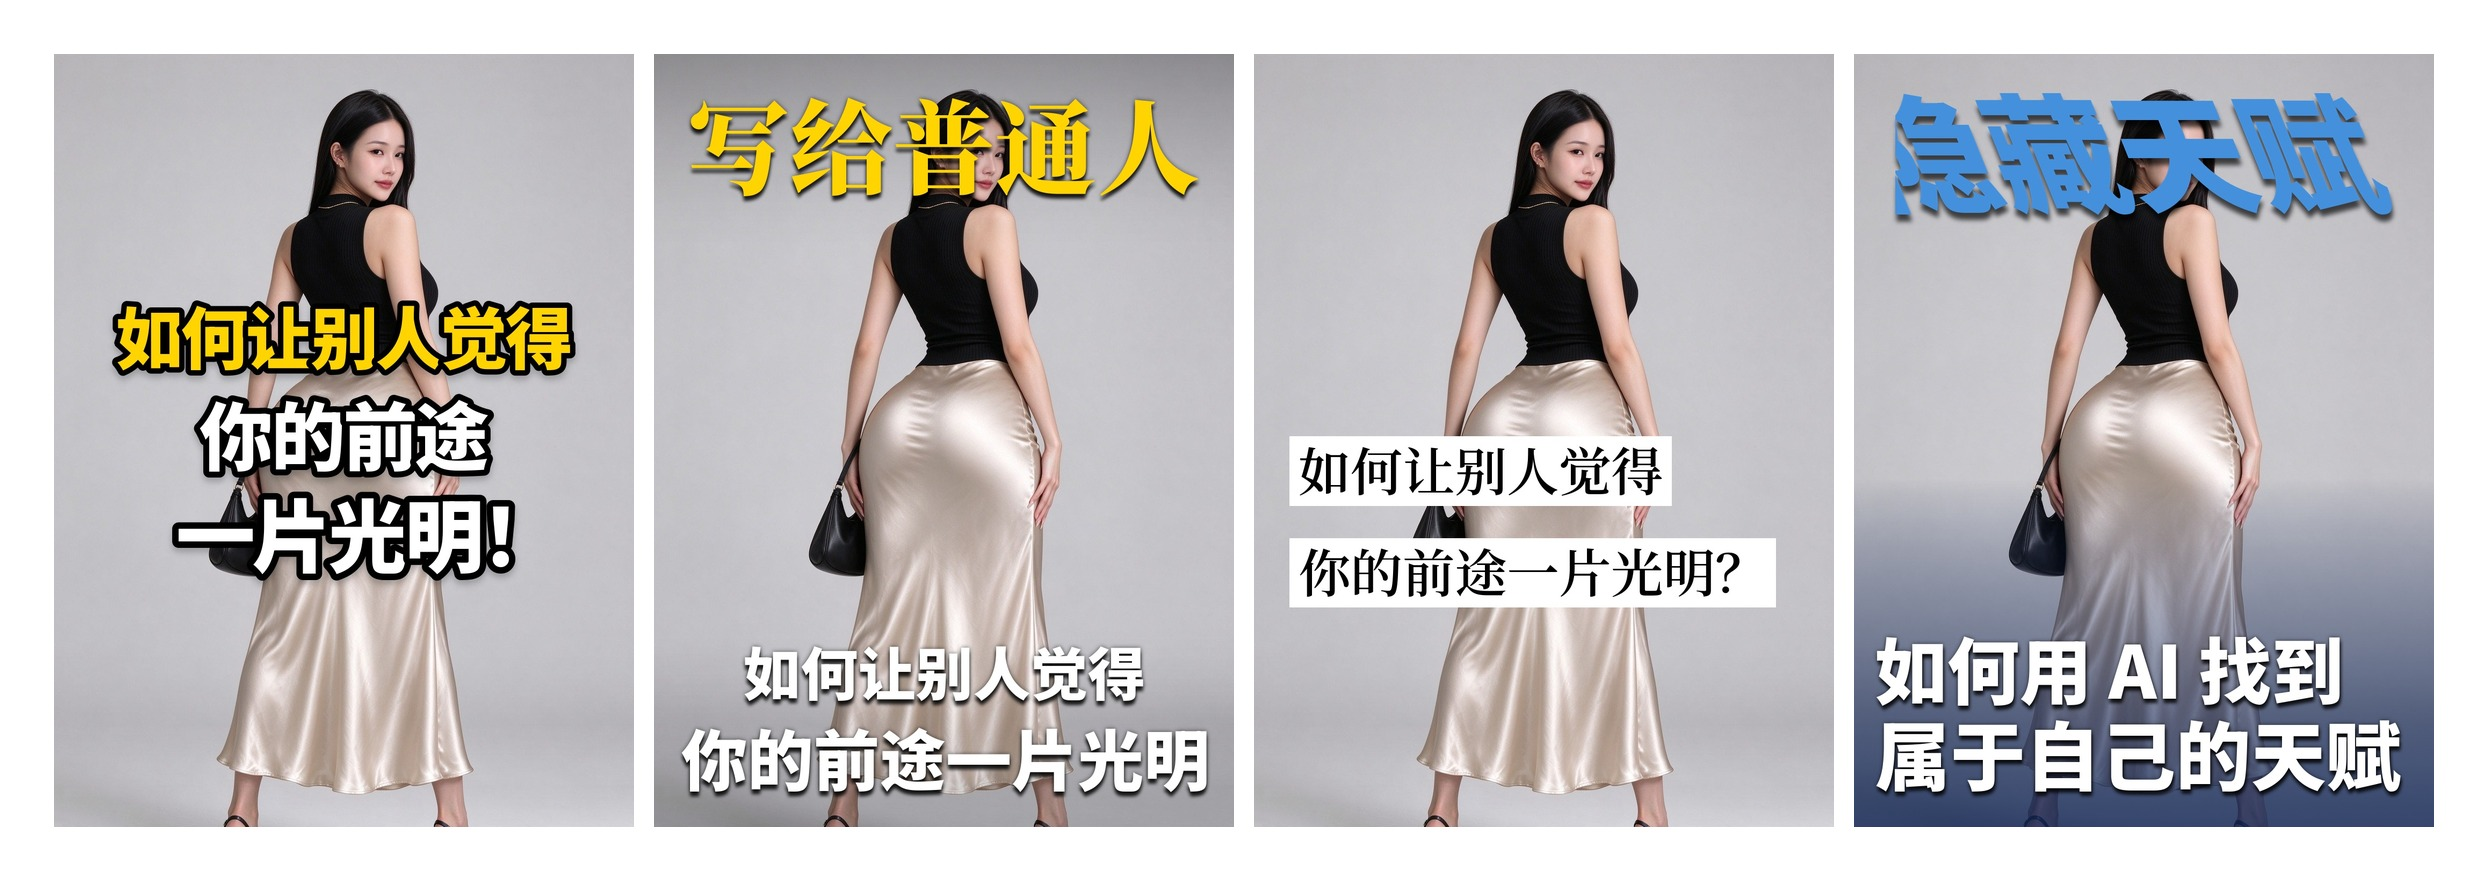
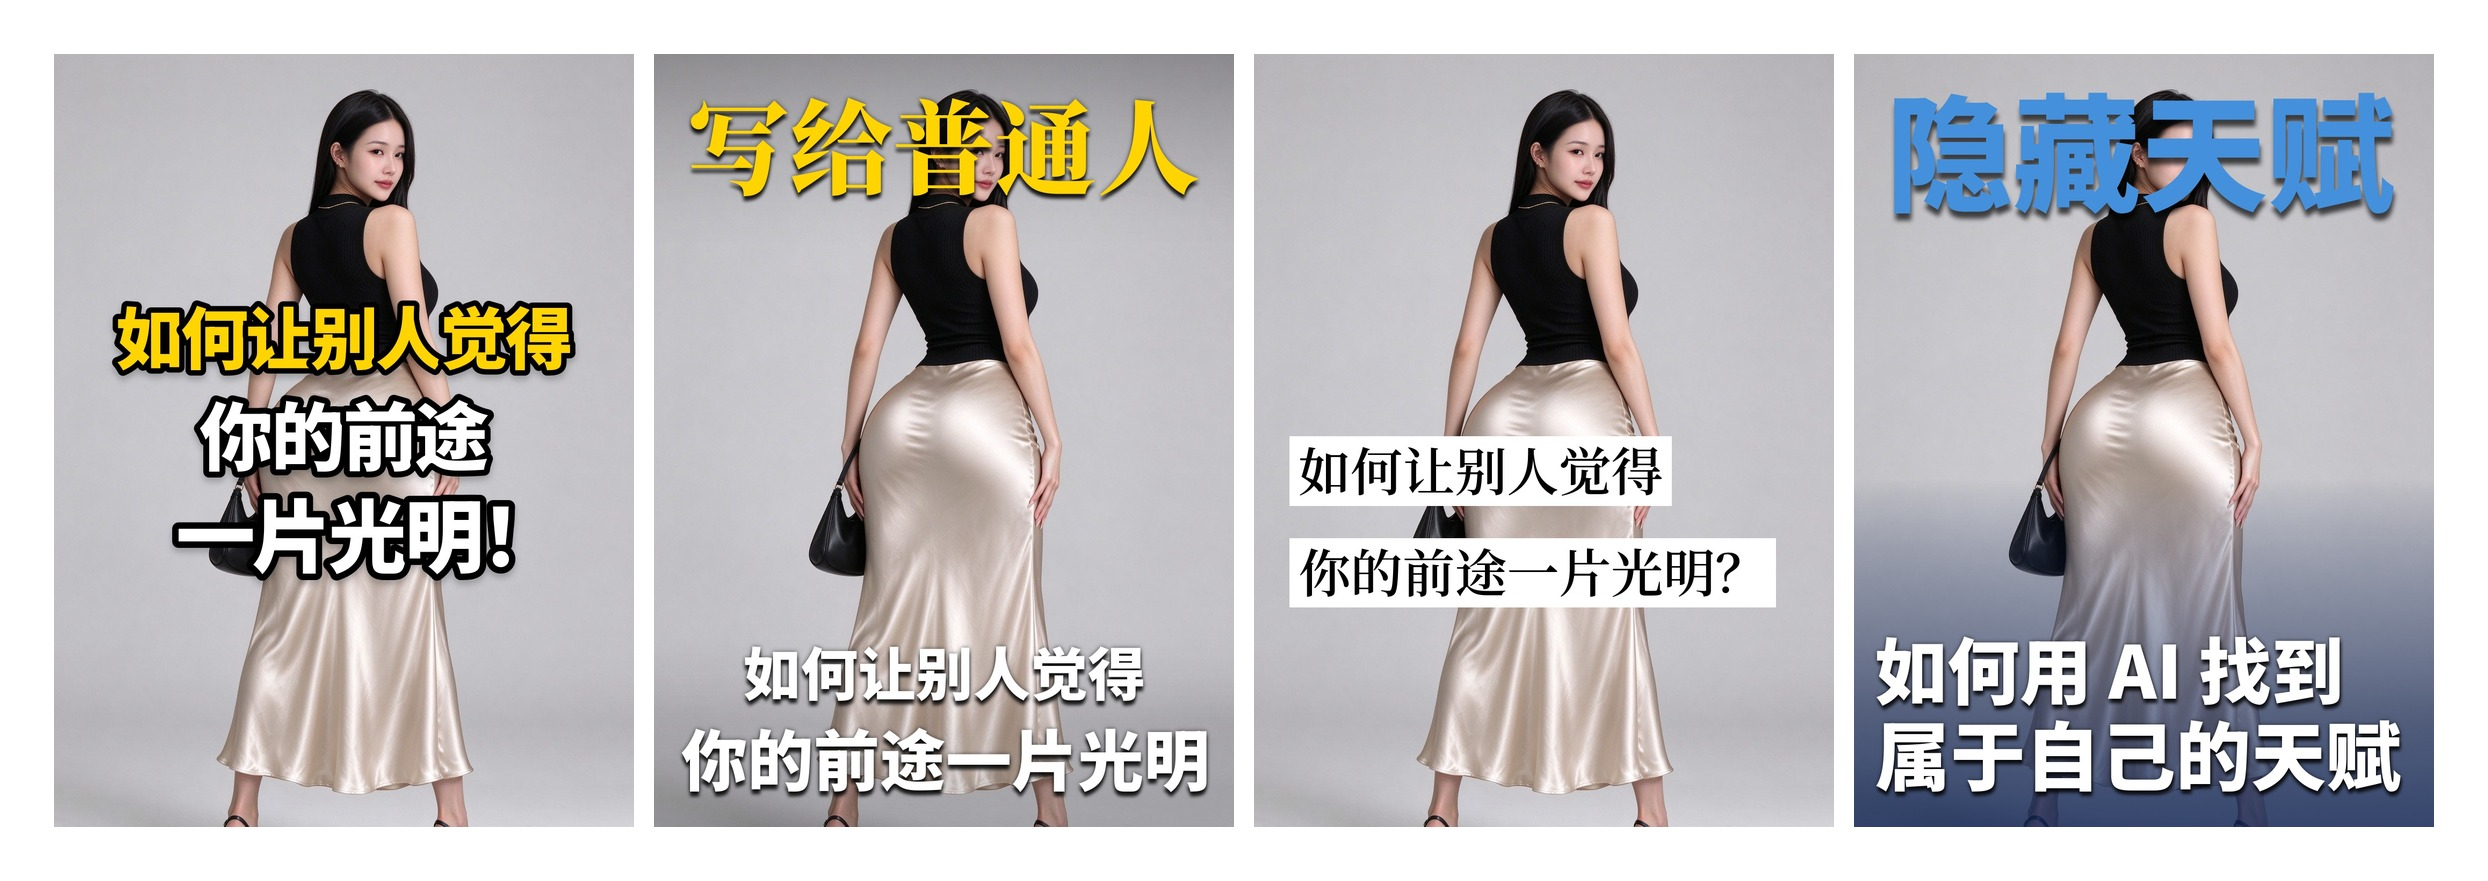
fix(style04): 默认关闭斜切，斜字压顶改名彩字压顶
- 中文字身方正，粗黑体 shear 后竖笔变细、横笔变粗，笔画方头被切成斜口，观感像被削
- --italic 默认 22 → 0，参数保留（18~22 可复刻参考图斜体感）
- 风格名改为「彩字压顶」，识别特征从「斜切」改为「彩字 + 暗化底带」
- 重出 showcase 与 all-styles

Changed region(s): [[0.7428, 0.0919, 0.9594, 0.2452]]

diff --git a/tools/style04_title_band.py b/tools/style04_title_band.py
@@ -12,7 +12,7 @@
 
 设计常量（相对画布 W / H，换画布也成立）
   标题墨迹宽   0.860 W   ← 硬约束：与字数无关，字号是变量
-  标题斜切     28°       ← 向右倾，模拟斜体；宽度反解时按剪切后的实际墨迹算
+  标题斜切     默认关     ← 参考图是斜的，但中文剪切后笔画端会出斜口，--italic 18~22 可开
   标题顶边距   0.050 H   ← 墨迹顶边到画布顶（不贴边）
   底行末行宽   0.905 W   ← 落点行，最大
   底行引导宽   0.700 W   ← 前面几行，明显小一档（一行大一行小）
@@ -48,7 +48,9 @@ BOT_FONTS = {
 
 TITLE_W = 0.860        # 标题墨迹宽 / 画布宽
 TITLE_INSET = 0.050    # 标题墨迹顶边距 / 画布高
-ITALIC = 22.0          # 斜切角度（度），向右倾
+ITALIC = 0.0           # 斜切角度（度），默认 0 不斜
+# 参考图是斜的，但中文字身方正，粗黑体剪切后笔画端部会被切出斜口，像被削了一刀。
+# 要复刻参考图那种斜体感再打开：--italic 18~22（别超过 24，中文会失真）
 TITLE_STROKE = 0.030   # 描边 / 字号（参考图有一圈很薄的浅边）
 TITLE_STROKE_COLOR = '#EAF4FF'
 
@@ -420,7 +422,7 @@ def main():
                     help='标题色，默认参考图蓝 #4490DC')
     ap.add_argument('--ink', default=INK, help='底行色，默认白')
     ap.add_argument('--italic', type=float, default=ITALIC,
-                    help='标题斜切角度，默认 28 度；0 = 不斜')
+                    help='标题斜切角度，默认 0（不斜）；18~22 复刻参考图的斜体感，别超过 24')
     ap.add_argument('--bot-cap', type=float, default=BOT_SIZE_CAP,
                     help='底行字号上限 / 标题字号，默认 0.92；1.5 = 放开')
     ap.add_argument('--title-w', type=float, default=TITLE_W,

diff --git a/style-library/04-彩字压顶.md b/style-library/04-彩字压顶.md
@@ -1,11 +1,14 @@
-# 风格卡：斜字压顶
+# 风格卡：彩字压顶
 
-> **核心画像**：真人实拍底图 + **顶部一行超大斜切标题（彩字）** + **底部两行白字** + **下半身压一块暗化底带**。三件套缺一不可。
+> **核心画像**：真人实拍底图 + **顶部一行超大彩字标题** + **底部两行白字** + **下半身压一块暗化底带**。三件套缺一不可。
+>
+> 参考图那个斜体标题是斜切出来的，但**中文粗黑体剪切后每个笔画的方头都会被切出斜口，看着像被削了一刀**。所以默认不斜，`--italic 18~22` 才开。
 >
 > 和样式02 是亲戚：都是「上下一夹、中间露人」。区别在于 04 把标题**做大、做斜、上色**，并且给底部加了一条**暗化底带**——白字不再靠阴影硬撑，而是自带一块深色地基。所以 04 能扛住高光底图（白墙、亮天、浅灰棚），02 扛不住。
 
 ```yaml
-name: 斜字压顶
+name: 彩字压顶
+aka: 斜字压顶（旧名，2026-11 起默认不斜）
 status: active
 category: 真人实拍 + 顶部彩字斜切大标题 + 底部两行白字 + 暗化底带
 
@@ -19,14 +22,14 @@ fits:
 core:
   layout: 顶部 1 行标题 + 底部 2 行白字，共 3 行（标题只能 1 行，底行 2-3 行）
   title_edge: 标题贴顶，字的下沿可以压到额头，但不下探到眼睛
-  italic: 标题必须斜切，正着放就退化成样式02
+  italic: 斜切可选，默认关闭（中文剪切后笔画端会出斜口，像被削）
   backdrop: 底部必须有一条暗化底带 —— 这是本卡的身份证
   no_deco: 角标 / 订阅按钮 / 姓名条 / 播放键等所有 UI 装饰一律不做，只留两处文字 + 底带
 ```
 
 ## 三条识别特征
 
-1. **斜切彩字压顶**：标题默认 22° 向右倾（斜体感），一个字都不许横平竖直地放着。颜色默认参考图的亮蓝 `#4490DC`，靠颜色把人从底图里拽出来。
+1. **彩字压顶**：标题是整张唯一上色的元素，默认参考图实测的亮蓝 `#4490DC`。一头撞在白墙、灰底、深色衣服上都能跳出来——这是它比样式02 更抓眼的根本原因。想更凶换 `#FF3B30` 红或 `#FFD400` 黄。
 2. **底部一条暗化底带**：0.55 H 以上**一点不压**，以下按幂函数加深，颜色是**深蓝黑**（`#0E2352`）而不是纯黑。压过之后底图下半身整体变冷变暗，白字像贴在深色地面上。纯黑会把底图的皮肤压成脏灰。
 3. **一行大、一行小**：末行撑满 90.5% W，上面那行只撑 80% W；两行还用同一个左基线，读起来是「平铺一句 → 加大落点」。
 
@@ -36,7 +39,7 @@ core:
 canvas:     3:4（1080 × 1440），全库统一
 title_w:    0.860 W     # 标题墨迹宽度，硬约束（斜切后的实际墨迹宽）
 title_inset:0.050 H     # 标题墨迹顶边 → 画布顶
-italic:     22°         # 斜切角度，向右倾；0 = 不斜（退化成 02）
+italic:     0           # 默认不斜；18~22 复刻参考图的斜体感，别超过 24
 bot_w:      0.905 W     # 底行【末行】墨迹宽度（落点）
 bot_lead_w: 0.800 W     # 底行【前几行】墨迹宽度（引导，小一档）
 bot_inset:  0.045 H     # 末行墨迹底边 → 画布底
@@ -96,7 +99,7 @@ python tools/style04_title_band.py --base 底图.png --out 封面.png \
 
 ## 不要做
 
-- **不要把标题放正**。斜切是这张卡唯一的手写体暗示，正着放就成了普通压边图。
+- **不要默认开斜切**。中文字是方的，剪切后竖笔变细、横笔变粗，所有方形笔画端头都被切成斜口——放大看像被削过。参考图是斜的，但那是因为它字少（4 字）、字重没到 900；7 字以上再斜会碎。要试就先 `--italic 18`，别一步上 28。
 - **不要给标题加黑描边**。那是样式01。04 靠颜色和柔影分离，不靠描边。
 - **不要把底带做成硬边色块**。硬边就是样式03 的白条换了个颜色，整张会像贴了张纸。必须是上沿渐隐的软过渡。
 - **不要用纯黑做底带**。纯黑会把底图肤色压成灰绿，人物看着像遗照。要带蓝。
@@ -108,7 +111,8 @@ python tools/style04_title_band.py --base 底图.png --out 封面.png \
 
 - **斜切必须用变换后的实际墨迹宽度反解字号**。计算式 `w + tan(θ)·h` 只是估算，中文不同字的墨迹高度不一样，估算和实绘能差 4-6%。做法和第二点一样：先二分、再实绘回修 3-4 次。
 - **`Image.transform` 的输出尺寸必须包含扩展区**。写成 `transform((w, h), AFFINE, (1, -k, extra, 0, 1, 0))` 时，右移的部分会被直接切掉，字看起来像被削掉一截——输出要用 `(w + extra, h)`。这个 bug 表现为「左边第一个字缺一块、右边最后一个字被裁」，很容易误判成居中算错。
-- **斜切角度超过 28° 会失真**。中文字身是方的，剪太狠笔画会拉成斜条；22° 最像正常的斜体，30° 以上只适合英文。
+- **斜切角度超过 24° 会失真**。中文字身是方的，剪太狠笔画会拉成斜条，18~22° 还像正常的斜体，30° 以上只适合英文。
+- **斜切后笔画粗细会变**。shear 只做几何变换，不做光学补偿：竖笔被压细、横笔被拉粗。粗黑体 900 字重下最明显，笔画端部的方头会变成斜切口——这就是「字被削了一块」的观感来源，不是裁切 bug。
 - **标题不能加暗晕**。样式02 那双层阴影挪过来会把斜切边的抗锯齿糊成毛边，蓝字看着发脏。标题只要一层右下柔影。
 - **底带起点不能太高**。一开始用 0.46 H 起渐隐、上一路斜下来，白底图（白墙白衣服）会被整张蒙上一层灰蓝，人物全脏。起点以上必须 `alpha = 0`，0.55 H 是最稳的位置：腰部以下压、以上不动。
 - **底带起点也不能太低**（0.68 H 以下），那样第一条底行会压在没有暗带的亮底上，只剩阴影硬撑。

diff --git a/SKILL.md b/SKILL.md
@@ -22,7 +22,7 @@ allowed-tools: Bash(*), Read, Write, Edit, Grep, Glob, Skill, ImageGen(经DeferE
 | **01** | 描边压脸 | 纯黑描边 + 黄色钩子行 + 白色结论行，三行堆叠、**整块钉在画布正中且撑满 80% 宽** | `tools/style01_stroke_stack.py` |
 | **02** | 上下压边 | 顶一行大标签 + 底两行大字，**上下一夹、中间整块露人**；无描边，顶宋体底黑体，每行独立撑满 87.5%/90.5% 宽 | `tools/style02_edge_anchor.py` |
 | **03** | 白条压字 | **纯白硬边横条** + **黑色宋体**，左对齐，横切人物腰腹 | `tools/style03_white_bar.py` |
-| **04** | 斜字压顶 | **顶部超大斜切彩字 + 底部两行白字 + 下半身暗化底带**，中间露人；只留两处文字，不做角标/按钮 | `tools/style04_title_band.py` |
+| **04** | 彩字压顶 | **顶部超大彩字标题 + 底部两行白字 + 下半身暗化底带**，中间露人；只留两处文字，不做角标/按钮 | `tools/style04_title_band.py` |
 
 > **画布统一 3:4（1080×1440）**。三个出图器都只出 3:4，`--width` 只改宽度、高度自动按比例算。这条不接受覆盖——同一批封面要做合集、做主页九宫格，比例不一致就废了。
 
@@ -74,7 +74,7 @@ allowed-tools: Bash(*), Read, Write, Edit, Grep, Glob, Skill, ImageGen(经DeferE
      - 样式 01 描边压脸 → `python tools/style01_stroke_stack.py --base 底图 --out 输出 --split "首行|次行|末行" [--accent] [--font] [--offset-y]`
      - 样式 02 上下压边 → `python tools/style02_edge_anchor.py --base 底图 --out 输出 --split "顶行|底1|底2" [--accent] [--bot-font] [--offset-y]`
      - 样式 03 白条压字 → `python tools/style03_white_bar.py --base 底图 --out 输出 --split "上句|下句" [--weight] [--font] [--offset-y]`
-     - 样式 04 斜字压顶 → `python tools/style04_title_band.py --base 底图 --out 输出 --split "标题|底1|底2" [--title-color] [--italic] [--veil] [--align]`
+     - 样式 04 彩字压顶 → `python tools/style04_title_band.py --base 底图 --out 输出 --split "标题|底1|底2" [--title-color] [--italic] [--veil] [--align]`
    - 工具都在本 skill 目录内。当前工作目录不确定时**用绝对路径调用**（`~/.workbuddy/skills/cover-style-lab/tools/style01_stroke_stack.py`），别 `cd` 进去再跑。
    - **路线 B：AI 图生图**——底图需要**改造**（换背景/造场景/无底图文生图）时才用。真人底图走 AI 会重绘人物（磨皮、衣物细节变动），做真人 IP 素材慎用。
    - AI 路线仍受 credits 约束：单张约 5-10，跑前报数。
@@ -106,7 +106,7 @@ allowed-tools: Bash(*), Read, Write, Edit, Grep, Glob, Skill, ImageGen(经DeferE
 | 用第一种样式 / 样式01 / 一号封面 | 直接读编号表 → 调 `style01_stroke_stack.py` |
 | 用上下压边 / 样式02 / 二号封面 | 直接读编号表 → 调 `style02_edge_anchor.py` |
 | 用白条 / 样式03 / 三号封面 | 直接读编号表 → 调 `style03_white_bar.py` |
-| 用斜字压顶 / 样式04 / 四号封面 | 直接读编号表 → 调 `style04_title_band.py` |
+| 用彩字压顶 / 样式04 / 四号封面 | 直接读编号表 → 调 `style04_title_band.py` |
 | 看看有哪几种风格 | 读 `style-library/INDEX.md`，把 `assets/showcase/all-styles.jpg` 总览图给对方 |
 | 把这个样式变成标准 / 存为样式 | Stage 2 + 落一个**带编号**的卡 + 对应工具，可复用才算标准 |
 | 有哪些风格了 | 读 `style-library/INDEX.md` 展示清单（带编号） |

diff --git a/README.md b/README.md
@@ -17,7 +17,7 @@
 | **01** | [描边压脸](style-library/01-描边压脸.md) | 纯黑描边 + 黄色钩子行 + 白色结论行，多行堆叠、**整块钉在画面正中并撑满 80% 宽** | 一句话标题、真人口播、赚钱认知、工具教学 |
 | **02** | [上下压边](style-library/02-上下压边.md) | **顶部一行大标签 + 底部两行大字**，上下一夹、中间整块露人；无描边，顶宋体底黑体 | 真人人设/创始人介绍、双层信息、脸必须露全 |
 | **03** | [白条压字](style-library/03-白条压字.md) | **纯白硬边横条** + **黑色宋体**，左对齐，横切人物腰腹 | 提问句、金句、认知/观点类内容 |
-| **04** | [斜字压顶](style-library/04-斜字压顶.md) | **顶部超大斜切彩字 + 底部两行白字 + 下半身暗化底带**，中间露人 | 强概念短标签、亮底/杂底图、投放素材 |
+| **04** | [彩字压顶](style-library/04-彩字压顶.md) | **顶部超大彩字标题 + 底部两行白字 + 下半身暗化底带**，中间露人 | 强概念短标签、亮底/杂底图、投放素材 |
 
 四张卡内核各不相同，参数不能混用。编号只增不改。
 
@@ -53,7 +53,7 @@ python tools/style03_white_bar.py \
     --base 底图.png --out 封面.png \
     --split "如何让别人觉得|你的前途一片光明？"
 
-# 样式04：斜字压顶
+# 样式04：彩字压顶
 python tools/style04_title_band.py \
     --base 底图.png --out 封面.png \
     --split "隐藏天赋|如何用AI找到|属于自己的天赋"
@@ -96,7 +96,7 @@ python tools/style04_title_band.py \
 | `--split` | — | 手动分行 `标题\|底1\|底2`，第一段是顶部大标题（推荐） |
 | `--top` / `--bottom` | — | 顶部标题 + 底部整句，底部自动断两行 |
 | `--title-color` | `#4490DC` | 标题色，参考图实测的亮蓝 |
-| `--italic` | `22` | 标题斜切角度，`0` = 不斜（会退化成样式02） |
+| `--italic` | `0` | 标题斜切角度，默认不斜；`18-22` 复刻参考图的斜体感 |
 | `--title-font` / `--bot-font` | `noto` | 思源黑 900；可选 `yahei` / `heiti` / `serif` |
 | `--veil` | `auto` | 底部暗化底带强度 0-205，`auto` 按底图亮度自动定 |
 | `--veil-color` | `#0E2352` | 底带颜色，**不要用纯黑** |
@@ -179,7 +179,7 @@ python tools/style04_title_band.py \
 ```
 标题宽度      0.860 W              # 硬约束：斜切后的实际墨迹宽
 标题顶边距    0.050 H
-标题斜切      22°                  # 向右倾；>28° 中文会失真
+标题斜切      默认关                # --italic 18~22 才开，>24° 中文会失真
 标题阴影      偏移 0.0022W / 0.0088H，模糊 0.0039 W，黑 175/255（只有一层，不加暗晕）
 底行宽度      0.905 W              # 末行（落点）
 底行引导宽    0.800 W              # 前几行
@@ -213,7 +213,7 @@ cover-style-lab/
 │   ├── 01-描边压脸.md + 01-描边压脸/
 │   ├── 02-上下压边.md
 │   ├── 03-白条压字.md
-│   └── 04-斜字压顶.md
+│   └── 04-彩字压顶.md
 ├── tools/
 │   ├── style01_stroke_stack.py     # 样式01 出图器
 │   ├── style02_edge_anchor.py      # 样式02 出图器

diff --git a/style-library/INDEX.md b/style-library/INDEX.md
@@ -18,7 +18,7 @@
 | **01** | [描边压脸](01-描边压脸.md) | 纯黑描边 + 黄色钩子行 + 白色结论行，多行堆叠、**整块钉在画布正中并撑满 80% 宽** | 真人出镜、赚钱认知、工具教学、一句话标题 | `tools/style01_stroke_stack.py` | [样本1](01-描边压脸/sample-01_雅黑_如何用AI找到隐藏天赋.png) / [总览](../assets/showcase/01-描边压脸.jpg) | active |
 | **02** | [上下压边](02-上下压边.md) | **顶部一行大标签 + 底部两行大字**，上下一夹、中间整块露人；每行独立撑满 87.5% / 90.5% 宽，宋体标签 + 黑体卖点 | 真人出镜 IP、创始人/人设介绍、上下双层信息 | `tools/style02_edge_anchor.py` | [总览](../assets/showcase/02-上下压边.jpg) | active |
 | **03** | [白条压字](03-白条压字.md) | **纯白硬边横条** + **黑色宋体**，左对齐堆叠，白条随文字长度伸缩，横切人物腰腹 | 观点/认知/金句型标题、女性成长、职场人际 | `tools/style03_white_bar.py` | [总览](../assets/showcase/03-白条压字.jpg) | active |
-| **04** | [斜字压顶](04-斜字压顶.md) | **顶部超大斜切彩字 + 底部两行白字 + 下半身暗化底带**，上一夹下一压，中间露人 | 强概念短标签、亮底/杂底图、投放素材、缩略图抢眼 | `tools/style04_title_band.py` | [总览](../assets/showcase/04-斜字压顶.jpg) | active |
+| **04** | [彩字压顶](04-彩字压顶.md) | **顶部超大彩字标题 + 底部两行白字 + 下半身暗化底带**，上一夹下一压，中间露人 | 强概念短标签、亮底/杂底图、投放素材、缩略图抢眼 | `tools/style04_title_band.py` | [总览](../assets/showcase/04-彩字压顶.jpg) | active |
 
 > 四张总览图用的是同一张底图（文案各自贴合各自风格），只换文字样式——就是为了让你一眼看出差别在哪。
 
@@ -28,10 +28,10 @@
 
 四张都是"真人底图 + 大字压图"，但给文字加的"壳"完全不同：
 
-| | 01 描边压脸 | 02 上下压边 | 03 白条压字 | 04 斜字压顶 |
+| | 01 描边压脸 | 02 上下压边 | 03 白条压字 | 04 彩字压顶 |
 |---|---|---|---|---|
 | 文字底色 | 无 | 无 | **纯白实色条** | **下半身暗化底带（软过渡）** |
-| 字体 | 黑体（思源 Heavy 900） | 顶宋体 900 / 底黑体 900 | **宋体（衬线）** | 全黑体 900，**标题斜切 22°** |
+| 字体 | 黑体（思源 Heavy 900） | 顶宋体 900 / 底黑体 900 | **宋体（衬线）** | 全黑体 900，标题**彩字** |
 | 描边 | **纯黑粗描边** | 无 | 无 | 无 |
 | 对齐 | 居中 | 居中 | **左对齐** | 标题居中 / 底行左对齐 |
 | 文字位置 | **画布正中**（硬约束，压住脸） | **贴上下边**，中间整块露人 | 偏下 0.495 H，横切腰腹 | 标题贴顶 / 底行贴底，中间露人 |
